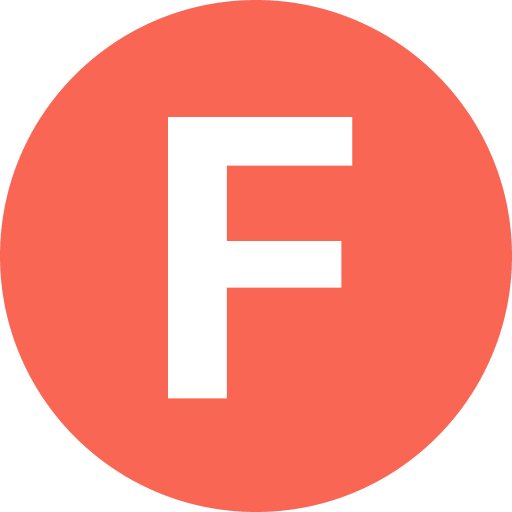
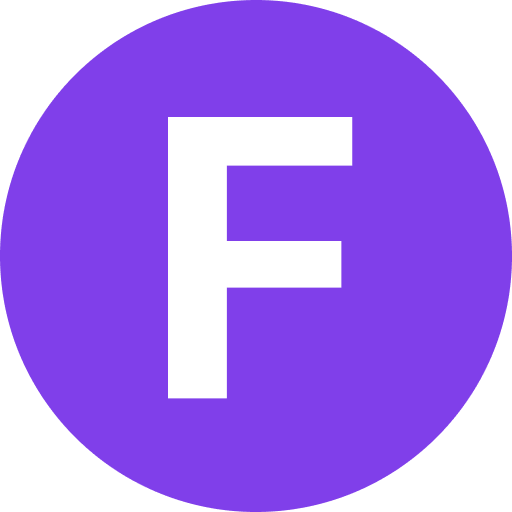
update

diff --git a/src/components/button-bar/tweet-button.tsx b/src/components/button-bar/tweet-button.tsx
@@ -6,7 +6,7 @@ export const TweetButton = (): JSX.Element => {
   const tweet = {
     text: 'Check out how rich I could have been...',
     url: document.URL,
-    hashtag: 'fomocryptocalculator'
+    hashtag: 'fomo'
   }
 
   const url = `https://twitter.com/intent/tweet?url=${tweet.url}&text=${tweet.text}&hashtags=${tweet.hashtag}`
@@ -17,7 +17,7 @@ export const TweetButton = (): JSX.Element => {
       mx={2}
       my={2}
       leftIcon={<TwitterIcon />}
-      colorScheme='twitter'
+      colorScheme='brand'
       href={url}
     >
       Tweet the regret

diff --git a/gatsby-config.js b/gatsby-config.js
@@ -14,7 +14,7 @@ module.exports = {
     {
       resolve: 'gatsby-plugin-google-analytics',
       options: {
-        trackingId: 'G-DLZ5XDZ406'
+        trackingId: 'G-H8W9KDDE2S'
       }
     },
     'gatsby-plugin-react-helmet',
